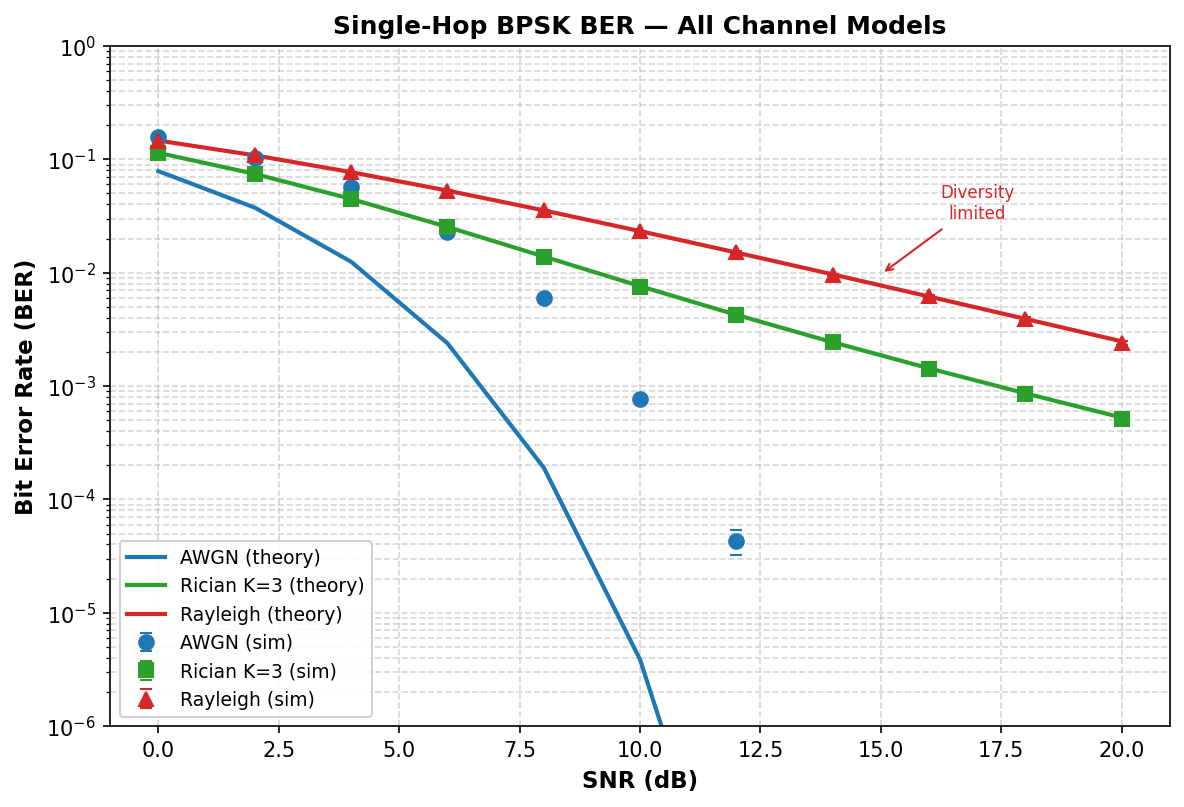
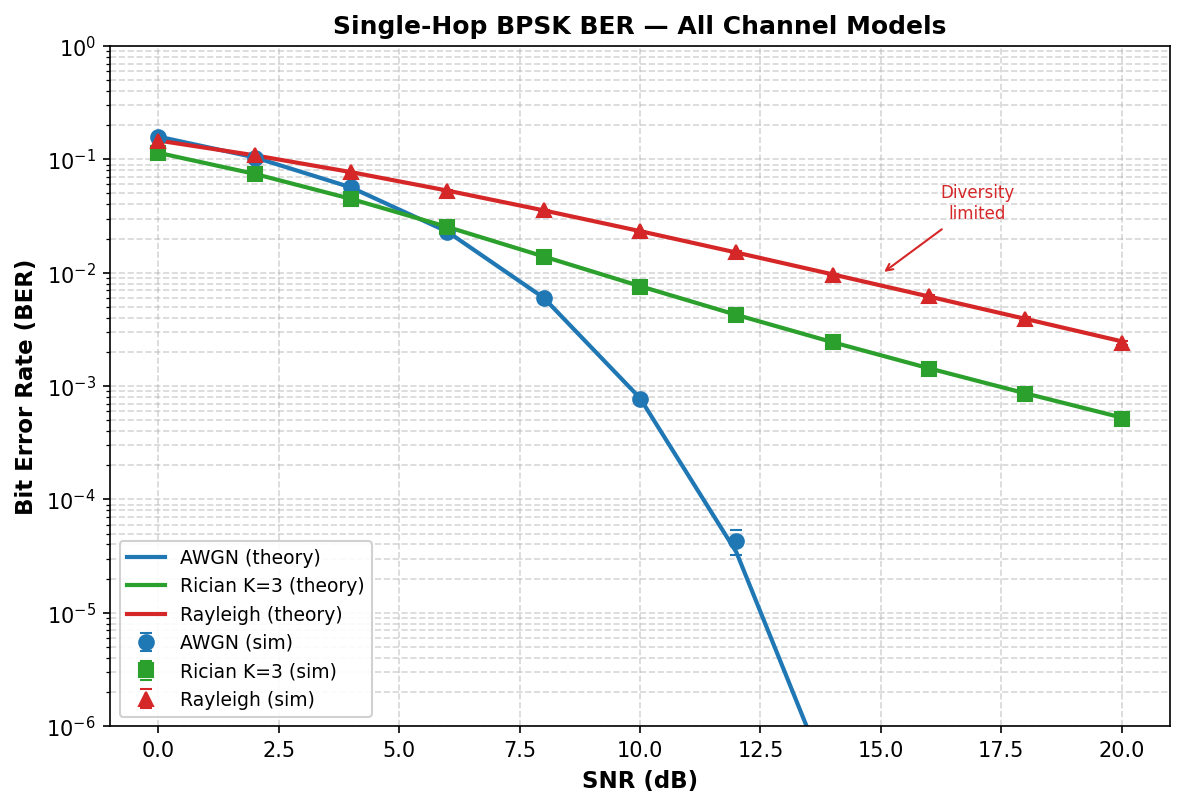
Fix AWGN BER formula: Q(sqrt(2*SNR)) -> Q(sqrt(SNR))
Root cause: AWGN channel adds REAL noise (var = 1/SNR) but fading
channels add COMPLEX noise (total power 1/SNR) and take Re() after
equalization, halving the effective noise variance per decision
dimension. The factor of 2 inside the Q-function applies to fading
channels naturally but NOT to the real-noise AWGN path.

- Fixed ber_bpsk_awgn: Q(sqrt(2*SNR)) -> Q(sqrt(SNR))
- Fixed ber_twohop_af_awgn: Q(sqrt(2*SNR_eff)) -> Q(sqrt(SNR_eff))
- Regenerated all 7 channel analysis plots (theory now matches sim)
- Updated thesis.md Sections 4.2 and 6.2.1 with correct formulas
- Added noise-convention note explaining AWGN vs fading difference

diff --git a/scripts/plot_channel_analysis.py b/scripts/plot_channel_analysis.py
@@ -58,8 +58,18 @@ def Q(x):
 
 
 def ber_bpsk_awgn(snr_linear):
-    """Theoretical BER for BPSK over a single AWGN hop."""
-    return Q(np.sqrt(2 * snr_linear))
+    """Theoretical BER for BPSK over a single AWGN hop.
+    
+    The AWGN channel implementation adds *real* noise with variance
+    σ² = P_s / SNR.  For BPSK ±1 symbols the conditional BER is
+    Q(1/σ) = Q(√SNR).  This differs from the textbook Q(√(2·Eb/N0))
+    because the fading channels use complex noise (with total power
+    1/SNR split equally across I and Q) and take Re() after
+    equalization, which halves the effective noise variance per
+    decision dimension.  That factor-of-2 appears naturally in the
+    fading formulas but NOT in the real-noise AWGN path.
+    """
+    return Q(np.sqrt(snr_linear))
 
 
 def ber_bpsk_rayleigh(snr_linear):
@@ -115,7 +125,7 @@ def ber_twohop_af_awgn(snr_linear):
     BER = Q(sqrt(2·SNR_eff))
     """
     snr_eff = snr_linear ** 2 / (2 * snr_linear + 1)
-    return Q(np.sqrt(2 * snr_eff))
+    return Q(np.sqrt(snr_eff))
 
 
 def ber_twohop_df_rayleigh(snr_linear):

diff --git a/thesis.md b/thesis.md
@@ -150,7 +150,7 @@ The end-to-end BER for DF is:
 
 $$P_e^{\text{DF}} = P_{e,1} + (1 - P_{e,1}) \cdot P_{e,2}$$
 
-where $P_{e,1}$ and $P_{e,2}$ are the BER of the first and second hops, respectively. For BPSK modulation over AWGN, each hop's BER is $P_e = Q\left(\sqrt{2 \cdot \text{SNR}}\right)$. DF provides clean regeneration at high SNR but suffers from error propagation when the first-hop BER is non-negligible.
+where $P_{e,1}$ and $P_{e,2}$ are the BER of the first and second hops, respectively. For BPSK modulation over AWGN (real-valued noise with variance $1/\text{SNR}$), each hop's BER is $P_e = Q\left(\sqrt{\text{SNR}}\right)$. DF provides clean regeneration at high SNR but suffers from error propagation when the first-hop BER is non-negligible.
 
 ### 4.3 Machine Learning in Wireless Communication
 
@@ -286,11 +286,15 @@ $$y = x + n, \quad n \sim \mathcal{N}(0, \sigma^2), \quad \sigma^2 = \frac{P_s}{
 
 where $P_s = \mathbb{E}[|x|^2] = 1$ for unit-power BPSK symbols. The noise variance is inversely proportional to the linear SNR.
 
-**Single-hop BER.** For BPSK modulation with coherent detection, the theoretical BER is (Proakis & Salehi, 2008):
+**Single-hop BER.** For BPSK $\pm 1$ symbols and real-valued AWGN with variance $\sigma^2 = 1/\text{SNR}$, an error occurs when the noise pushes the received sample past the decision boundary at the origin. The theoretical BER is:
 
-$$P_e^{\text{AWGN}} = Q\left(\sqrt{2 \cdot \text{SNR}}\right) = \frac{1}{2}\text{erfc}\left(\sqrt{\text{SNR}}\right)$$
+$$P_e^{\text{AWGN}} = Q\!\left(\frac{1}{\sigma}\right) = Q\left(\sqrt{\text{SNR}}\right) = \frac{1}{2}\,\text{erfc}\!\left(\sqrt{\frac{\text{SNR}}{2}}\right)$$
 
-where $Q(x) = \frac{1}{2}\text{erfc}(x/\sqrt{2})$ is the Gaussian Q-function. This expression follows from the symmetry of the BPSK constellation: an error occurs when the noise magnitude exceeds the decision boundary at the origin.
+where $Q(x) = \frac{1}{2}\text{erfc}(x/\sqrt{2})$ is the Gaussian Q-function and $\text{SNR} = P_s / \sigma^2$ is the ratio of signal power to noise variance.
+
+> **Noise-convention note.** The standard textbook result $P_e = Q(\sqrt{2 E_b/N_0})$ assumes that the one-sided noise PSD is $N_0$, giving a baseband noise variance of $N_0/2$ per real dimension. In our AWGN implementation the noise is purely real with variance $\sigma^2 = P_s/\text{SNR}$, so $N_0 = 2\sigma^2 = 2P_s/\text{SNR}$ and $E_b/N_0 = \text{SNR}/2$. Substituting yields $Q(\sqrt{2 \cdot \text{SNR}/2}) = Q(\sqrt{\text{SNR}})$, which is the expression used throughout this work.
+>
+> By contrast, the fading channels add **complex** Gaussian noise with total power $1/\text{SNR}$ (i.e. $\sigma_I^2 = \sigma_Q^2 = 1/(2\,\text{SNR})$) and extract the real part after ZF equalization, halving the effective noise variance per decision dimension. This naturally introduces a factor of 2 inside the Q-function argument for all fading-channel BER expressions (Sections 6.2.2–6.2.5), making them consistent with the standard textbook forms.
 
 **Two-hop DF BER.** For a decode-and-forward relay with equal-SNR hops, an error occurs at the destination if exactly one hop introduces an error:
 
@@ -302,7 +306,7 @@ With equal hops ($P_{e,1} = P_{e,2} = P_e^{\text{AWGN}}$), this becomes $P_e^{\t
 
 $$\text{SNR}_{\text{eff}}^{\text{AF}} = \frac{\text{SNR}_1 \cdot \text{SNR}_2}{\text{SNR}_1 + \text{SNR}_2 + 1} = \frac{\gamma^2}{2\gamma + 1}$$
 
-where $\gamma = \text{SNR}$ is the per-hop SNR. The resulting BER is $P_e^{\text{AF}} = Q\left(\sqrt{2 \cdot \text{SNR}_{\text{eff}}}\right)$. At high SNR, $\text{SNR}_{\text{eff}} \approx \gamma/2$, confirming the well-known 3 dB penalty of AF relaying.
+where $\gamma = \text{SNR}$ is the per-hop SNR. The resulting BER is $P_e^{\text{AF}} = Q\left(\sqrt{\text{SNR}_{\text{eff}}}\right)$ (same real-noise convention as the single-hop case). At high SNR, $\text{SNR}_{\text{eff}} \approx \gamma/2$, confirming the well-known 3 dB penalty of AF relaying.
 
 > **Figure reference:** `results/channel_theoretical_awgn.png` — AWGN single-hop, two-hop AF, and two-hop DF: closed-form theory (solid lines) versus Monte Carlo simulation (markers with 95% CI). Theory and simulation match within the confidence interval at all SNR points.
 
